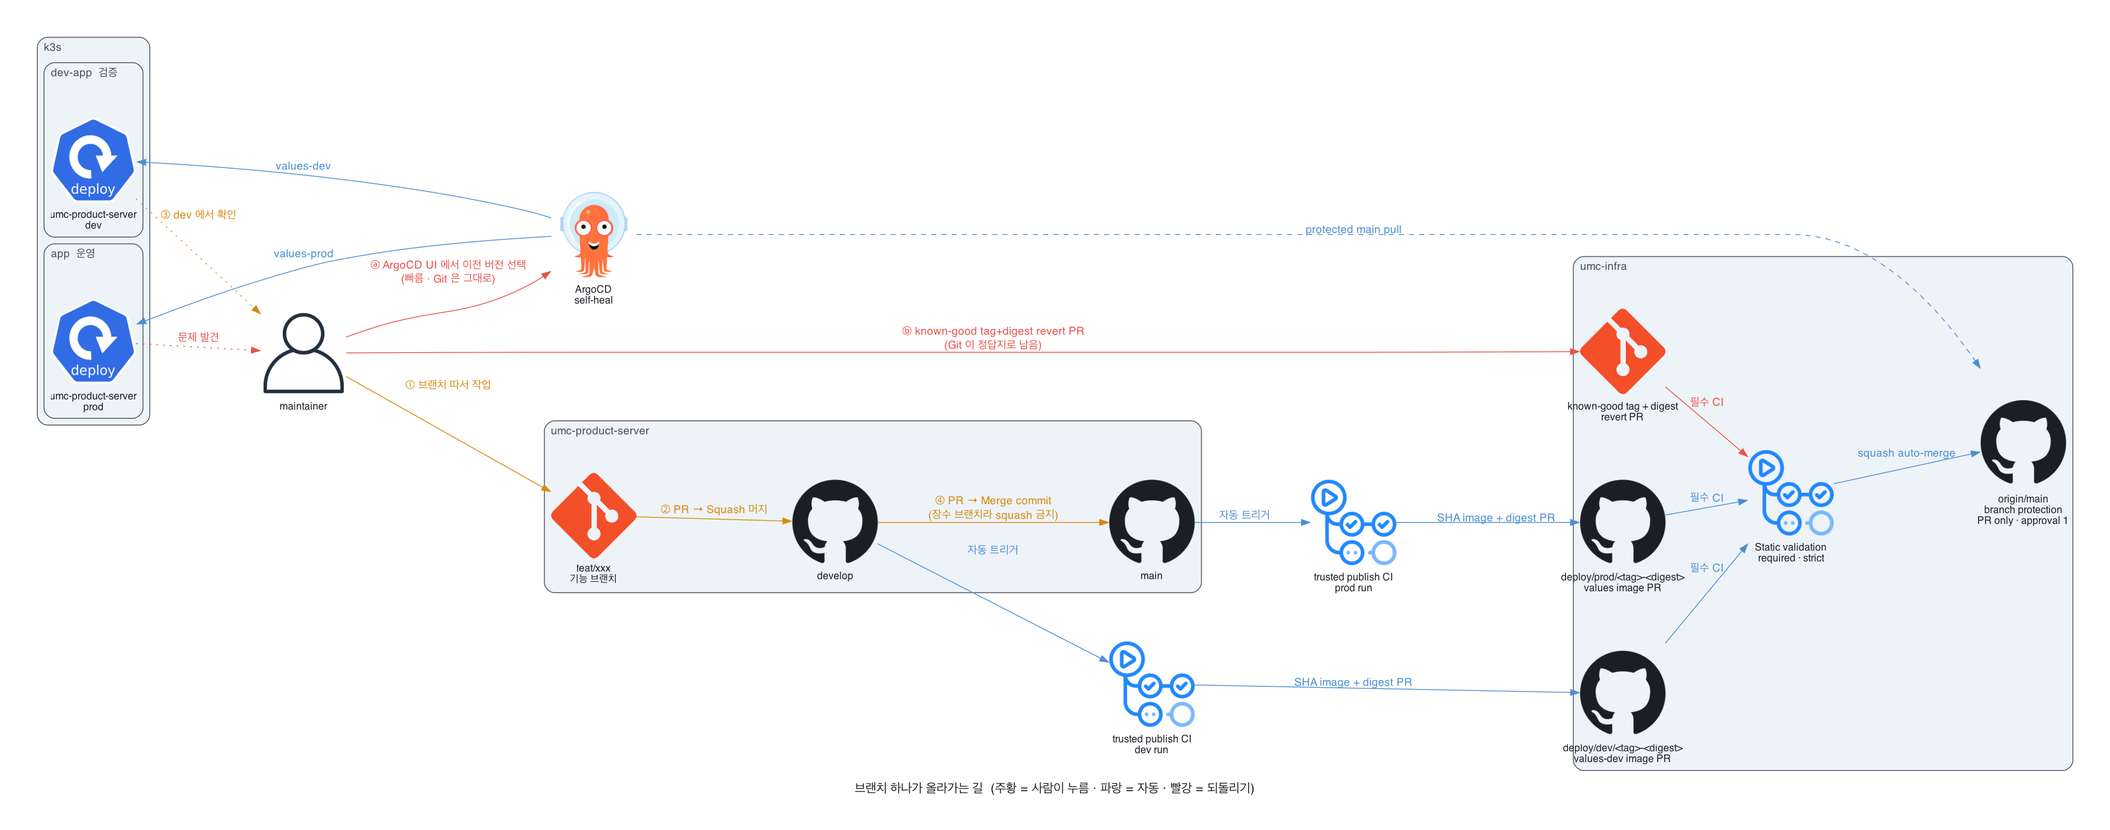
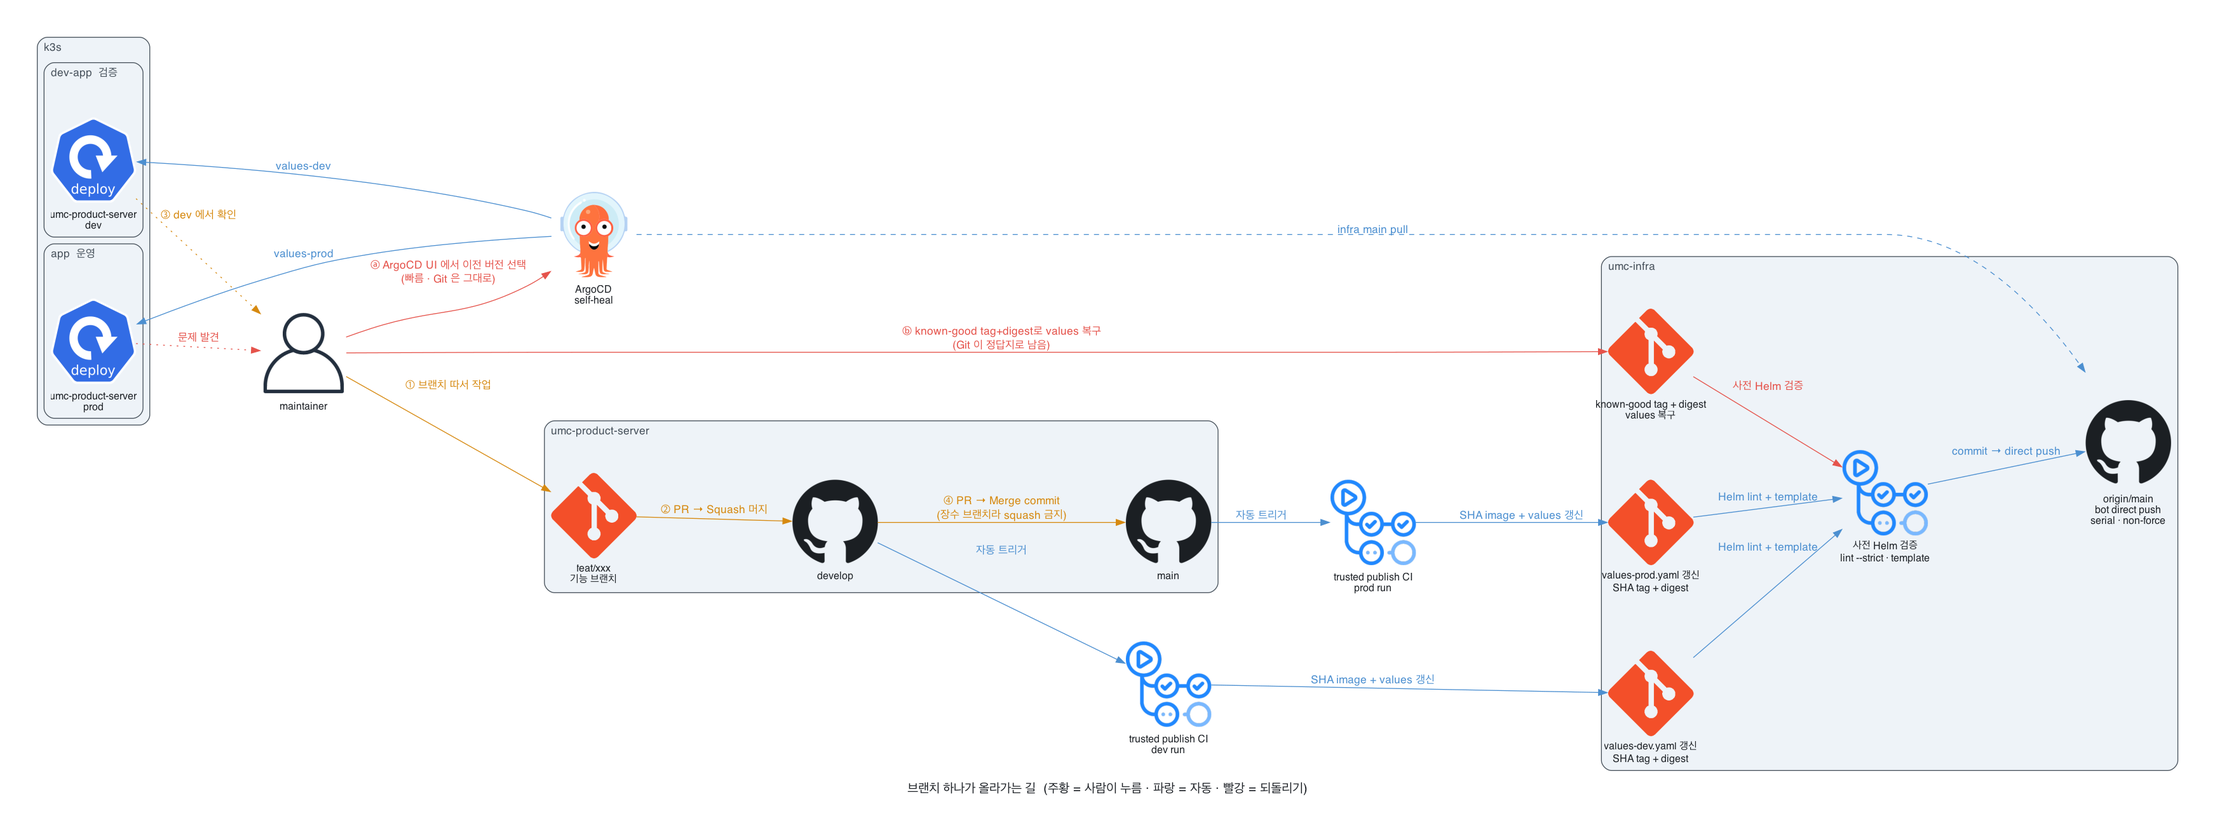
docs: GitOps 직접 반영 흐름 동기화

diff --git a/docs/umc-infra-control-room.html b/docs/umc-infra-control-room.html
@@ -992,7 +992,7 @@
               <ul class="clean-list">
                 <li>현재 remote 없음</li>
                 <li>write는 cluster-admin급</li>
-                <li>BE bot도 PR만 허용</li>
+                <li>BE bot은 사전 검증한 image values만 직접 반영</li>
               </ul>
             </div>
           </article>
@@ -1027,7 +1027,7 @@
             <div class="phase-body">
               <span class="status-chip is-later">be later</span>
               <h3>Image and activation</h3>
-              <p>BE CI가 public GHCR에 SHA image를 게시하고 infra tag·digest PR을 만든다. dev 검증 후 prod, preview는 마지막이다.</p>
+              <p>BE CI가 public GHCR에 SHA image를 게시하고, Helm 사전 검증 후 infra main에 tag·digest를 직접 반영한다. Argo CD가 변경을 감지해 자동 동기화하며 dev 검증 후 prod, preview는 마지막이다.</p>
               <ul class="clean-list">
                 <li>prod/dev는 tag + digest</li>
                 <li>production TLS 뒤 Ingress</li>
@@ -1177,7 +1177,7 @@
           <div class="sec-index">05 / GATE</div>
           <div class="sec-copy">
             <h2>체크리스트 대신 현재 상태판</h2>
-            <p>gate는 문서 장식이 아니라 fail-closed 값이다. 조건이 확인된 항목만 별도 PR로 바꾼다.</p>
+            <p>gate는 문서 장식이 아니라 fail-closed 값이다. 조건이 확인되고 사전 검증을 통과한 항목만 infra main에 반영한다.</p>
           </div>
         </div>
 
@@ -1409,7 +1409,7 @@
           </article>
           <article class="next-item is-deferred">
             <h3>BE image 공급 경로 수정</h3>
-            <p><code>.env.local</code> packaging을 차단하고 실제 image를 scan한다. CI는 public GHCR에 12-char SHA를 게시하고 prod/dev digest를 infra PR에 기록한다.</p>
+            <p><code>.env.local</code> packaging을 차단하고 실제 image를 scan한다. CI는 public GHCR에 12-char SHA를 게시하고, prod/dev values를 Helm으로 사전 검증한 뒤 digest를 infra main에 직접 기록한다.</p>
           </article>
           <article class="next-item is-deferred">
             <h3>dev → prod → preview 순차 활성화</h3>

diff --git a/docs/diagrams/branch_flow.py b/docs/diagrams/branch_flow.py
@@ -3,8 +3,8 @@
 cicd_flow.py 는 "push 하면 어떻게 배포되나"를 그린다. 이 그림은 그 앞단이다:
 기능 브랜치를 따서 develop을 거쳐 prod까지 올리는 순서와, 잘못됐을 때 되돌리는 두 경로.
 
-앱 승격은 사람이 결정하고, 각 환경의 infra tag+digest 변경은 PR·필수 CI·
-squash auto-merge를 거친다. 저장소 branch protection은 최초 CI 성공 후 적용한다.
+앱 승격은 사람이 결정하고, 각 환경의 infra tag+digest 변경은 사전 Helm 검증 후
+main에 직접 push한다. dev/prod 갱신은 직렬화하며 force push하지 않는다.
 
     python branch_flow.py   →  out/branch-flow.png
 """
@@ -45,11 +45,11 @@ def build(theme: dict) -> None:
         cd_prod = GithubActions("trusted publish CI\nprod run")
 
         with Cluster("umc-infra", graph_attr=ca):
-            pr_dev = Github("deploy/dev/<tag>-<digest>\nvalues-dev image PR")
-            pr_prod = Github("deploy/prod/<tag>-<digest>\nvalues image PR")
-            checks = GithubActions("Static validation\nrequired · strict")
-            infra_main = Github("origin/main\nbranch protection\nPR only · approval 1")
-            revert_pr = Git("known-good tag + digest\nrevert PR")
+            update_dev = Git("values-dev.yaml 갱신\nSHA tag + digest")
+            update_prod = Git("values-prod.yaml 갱신\nSHA tag + digest")
+            checks = GithubActions("사전 Helm 검증\nlint --strict · template")
+            infra_main = Github("origin/main\nbot direct push\nserial · non-force")
+            rollback_values = Git("known-good tag + digest\nvalues 복구")
 
         argo = Argocd("ArgoCD\nself-heal")
 
@@ -59,34 +59,34 @@ def build(theme: dict) -> None:
             with Cluster("app  운영", graph_attr=ca):
                 prod_pod = Deployment("umc-product-server\nprod")
 
-        # 올리는 길 — 앱 승격은 사람, infra tag PR부터는 자동이다.
+        # 올리는 길 — 앱 승격은 사람, infra values 갱신부터는 자동이다.
         me >> Edge(label="① 브랜치 따서 작업", color=MANUAL, fontcolor=MANUAL) >> feat
         feat >> Edge(label="② PR → Squash 머지", color=MANUAL, fontcolor=MANUAL) >> dev_br
 
         dev_br >> Edge(label="자동 트리거", color=AUTO, fontcolor=AUTO) >> cd_dev
-        cd_dev >> Edge(label="SHA image + digest PR", color=AUTO, fontcolor=AUTO) >> pr_dev
-        pr_dev >> Edge(label="필수 CI", color=AUTO, fontcolor=AUTO) >> checks
+        cd_dev >> Edge(label="SHA image + values 갱신", color=AUTO, fontcolor=AUTO) >> update_dev
+        update_dev >> Edge(label="Helm lint + template", color=AUTO, fontcolor=AUTO) >> checks
 
         dev_pod >> Edge(label="③ dev 에서 확인", color=MANUAL, fontcolor=MANUAL, style="dotted") >> me
         dev_br >> Edge(label="④ PR → Merge commit\n(장수 브랜치라 squash 금지)",
                        color=MANUAL, fontcolor=MANUAL) >> main_br
 
         main_br >> Edge(label="자동 트리거", color=AUTO, fontcolor=AUTO) >> cd_prod
-        cd_prod >> Edge(label="SHA image + digest PR", color=AUTO, fontcolor=AUTO) >> pr_prod
-        pr_prod >> Edge(label="필수 CI", color=AUTO, fontcolor=AUTO) >> checks
-        checks >> Edge(label="squash auto-merge", color=AUTO, fontcolor=AUTO) >> infra_main
-        argo >> Edge(label="protected main pull", color=AUTO, fontcolor=AUTO,
+        cd_prod >> Edge(label="SHA image + values 갱신", color=AUTO, fontcolor=AUTO) >> update_prod
+        update_prod >> Edge(label="Helm lint + template", color=AUTO, fontcolor=AUTO) >> checks
+        checks >> Edge(label="commit → direct push", color=AUTO, fontcolor=AUTO) >> infra_main
+        argo >> Edge(label="infra main pull", color=AUTO, fontcolor=AUTO,
                      style="dashed") >> infra_main
         argo >> Edge(label="values-dev", color=AUTO, fontcolor=AUTO) >> dev_pod
         argo >> Edge(label="values-prod", color=AUTO, fontcolor=AUTO) >> prod_pod
 
-        # 되돌리는 길 — 두 가지
+        # 되돌리는 길 — 즉시 Argo CD rollback과 Git 기준값 복구
         prod_pod >> Edge(label="문제 발견", color=BACK, fontcolor=BACK, style="dotted") >> me
         me >> Edge(label="ⓐ ArgoCD UI 에서 이전 버전 선택\n(빠름 · Git 은 그대로)",
                    color=BACK, fontcolor=BACK) >> argo
-        me >> Edge(label="ⓑ known-good tag+digest revert PR\n(Git 이 정답지로 남음)",
-                   color=BACK, fontcolor=BACK) >> revert_pr
-        revert_pr >> Edge(label="필수 CI", color=BACK, fontcolor=BACK) >> checks
+        me >> Edge(label="ⓑ known-good tag+digest로 values 복구\n(Git 이 정답지로 남음)",
+                   color=BACK, fontcolor=BACK) >> rollback_values
+        rollback_values >> Edge(label="사전 Helm 검증", color=BACK, fontcolor=BACK) >> checks
 
 
 if __name__ == "__main__":

diff --git a/docs/diagrams/cicd_flow.py b/docs/diagrams/cicd_flow.py
@@ -1,11 +1,12 @@
 """CI/CD 배포 흐름 — 코드 push 부터 클러스터 반영까지.
 
-매니페스트만으로는 그릴 수 없다. "Actions 가 ghcr 에 밀고 인프라 tag+digest PR을 열면 필수 CI 뒤
-merge되고 ArgoCD 가 감지한다"는 어떤 매니페스트에도 적혀 있지 않기 때문이다. 그래서 손으로 그린다.
+매니페스트만으로는 그릴 수 없다. "Actions가 GHCR에 밀고 infra tag+digest를 갱신한 뒤
+Helm 검증을 통과하면 main에 직접 push하고 Argo CD가 감지한다"는 어떤 매니페스트에도 적혀
+있지 않기 때문이다. 그래서 손으로 그린다.
 
 이 그림이 반드시 전달해야 하는 두 가지:
   1) ArgoCD → GitHub 방향이 pull 이다 (push 아님)
-  2) 앱 레포에서 클러스터로 가는 화살표와 infra main 직접 push가 없다
+  2) 앱 레포에서 클러스터로 직접 apply하는 화살표가 없다
 
     python cicd_flow.py     →  out/cicd-flow.png
 """
@@ -45,10 +46,9 @@ def build(theme: dict) -> None:
         )
 
         with Cluster("umc-infra  (public)", graph_attr=ca):
-            bump = Git("deploy/<env>/<tag>-<digest>\nimage.tag + image.digest")
-            bump_pr = Github("image bump PR")
-            checks = GithubActions("Static validation\nrequired · strict")
-            repo_infra = Github("컷오버 후 origin/main\nPR only · squash\nadmin bypass 없음")
+            bump = Git("values-<env>.yaml 갱신\nimage.tag + image.digest")
+            checks = GithubActions("사전 Helm 검증\nlint --strict · template")
+            repo_infra = Github("origin/main\nbot direct push\nserial · non-force")
 
         with Cluster("IDC 물리 서버 1대  ·  k3s", graph_attr=ca):
             argo = Argocd("ArgoCD")
@@ -62,19 +62,18 @@ def build(theme: dict) -> None:
         ) >> actions
 
         actions >> Edge(label="① 이미지 빌드 → push", fontcolor=theme["fg"]) >> registry
-        actions >> Edge(label="② 배포 브랜치 생성", style="dashed",
+        actions >> Edge(label="② values 갱신", style="dashed",
                         fontcolor=theme["fg"]) >> bump
-        bump >> Edge(label="③ PR 생성", fontcolor=theme["fg"]) >> bump_pr
-        bump_pr >> Edge(label="④ 필수 검증", fontcolor=theme["fg"]) >> checks
-        checks >> Edge(label="⑤ squash auto-merge", fontcolor=theme["fg"]) >> repo_infra
+        bump >> Edge(label="③ 사전 검증", fontcolor=theme["fg"]) >> checks
+        checks >> Edge(label="④ commit → direct push", fontcolor=theme["fg"]) >> repo_infra
 
         # 이 화살표의 방향이 이 설계의 전부다 — 클러스터가 GitHub 을 읽는다
-        argo >> Edge(label="⑥ 3분마다 읽음 (pull)", color=PULL, fontcolor=PULL) >> repo_infra
+        argo >> Edge(label="⑤ 3분마다 읽음 (pull)", color=PULL, fontcolor=PULL) >> repo_infra
 
         argo >> Edge(label="values-prod.yaml → Production", fontcolor=theme["fg"]) >> prod
         argo >> Edge(label="values-dev.yaml → Development", fontcolor=theme["fg"]) >> dev_app
 
-        prod >> Edge(label="⑦ anonymous digest pull", style="dotted",
+        prod >> Edge(label="⑥ anonymous digest pull", style="dotted",
                      fontcolor=theme["fg"]) >> registry
         dev_app >> Edge(style="dotted") >> registry
 

diff --git a/docs/guides/github-trust-root.md b/docs/guides/github-trust-root.md
@@ -7,55 +7,67 @@ Argo CD가 `UMC-PRODUCT/umc-product-infra`의 `main`을 자동 반영하므로 b
 
 | 정책 | 값 |
 |---|---|
-| merge 경로 | pull request only |
-| required check | `Static validation`, strict |
+| 일반 변경 경로 | pull request only |
+| 배포 자동화 | 승인된 bot의 `values-prod.yaml` / `values-dev.yaml` direct push만 예외 |
+| direct push 사전 검증 | 선택한 환경의 `helm lint --strict` + `helm template` |
+| push 후 검증 | `Static validation` |
 | approval | 최소 1명 |
 | stale review | 새 push 때 dismiss |
 | last push | 마지막 push 작성자 외 승인 필요 |
-| admin bypass | 금지 |
+| bypass | 배포 bot만 명시적 허용 |
 | history | squash + linear |
 | conversation resolution | 필수 |
 | force push / branch delete | 금지 |
 
-인프라 변경은 클러스터 권한 변경이므로 승인 0을 금지한다. UMC team slug 확정 후 CODEOWNERS team을 추가하되, 그전에도 1명 승인을 유지한다.
+일반 인프라 변경은 클러스터 권한 변경이므로 승인 0을 금지한다. 예외는 trusted backend
+branch에서 실행되고, 선택한 image values 파일만 갱신하며, push 전 Helm 검증을
+통과한 배포 자동화다. UMC team slug 확정 후 CODEOWNERS team을 추가하되, 일반
+변경에는 그전에도 1명 승인을 유지한다.
 
-workflow 표시명은 `Validate infrastructure`, required-check context는 job `Static validation`이다. 스크립트는 임의 동명 status가 아닌 현재 `main` SHA에서 성공한 check의 GitHub Actions App ID까지 확인한다.
+workflow 표시명은 `Validate infrastructure`, check context는 job `Static validation`이다. direct push 후
+실행되는 이 check는 Argo CD 동기화를 사전 차단하지 못하므로, backend workflow의
+정확한 파일 제한과 Helm 사전 검증이 배포 gate다.
 
 ## 적용 순서
 
 1. `UMC-PRODUCT/umc-product-infra` 저장소를 만들고 초기 버전을 `main`에 올린다.
 2. `Static validation`이 실제 `main` SHA에서 성공했는지 확인한다.
 3. GitHub secret scanning과 push protection을 켠다.
-4. 관리자 환경에서 `gh auth status`와 `jq`를 확인한다.
-5. 아래 명령을 실행한다.
+4. backend 배포 bot용 fine-grained PAT에 해당 저장소의 `Contents: Read and write`만 부여하고
+   backend 저장소의 `UMC_INFRA_GITOPS_TOKEN` Secret으로 저장한다.
+5. 일반 변경은 PR로 제한하되 해당 배포 bot만 direct push 예외로 명시한다.
 
-```bash
-scripts/configure-github-trust-root.sh --apply
-```
-
-스크립트는 `umc-product-server`를 읽거나 수정하지 않아 backend publish workflow 전에도 infra를 보호한다.
-branch protection 후 auto-merge, squash-only, merge 후 branch 삭제를 설정한다. 중간 실패해도 보호는 남으며 같은 명령으로 수렴한다.
+> [!WARNING]
+> 현재 `scripts/configure-github-trust-root.sh --apply`는 `main` direct push를 모두 차단하는 PR-only
+> 규칙을 적용한다. 배포 bot 예외를 지원하도록 스크립트를 갱신하기 전에는 실행하지 않는다.
 
 조직 2FA 강제와 복구 수단 관리는 권장하지만 조직 owner가 별도로 다룰 정책이다. 저장소 branch
 protection 적용과 결합하지 않으며, 이 스크립트도 조직 구성원이나 2FA 상태를 조회하지 않는다.
 
-## Backend 자동화의 미래 계약
+## Backend 배포 자동화 계약
 
 - prod source: `main`
 - dev source: `develop`
 - preview source: `develop` 대상의 trusted same-repository PR + `preview` label
 - image: public `ghcr.io/umc-product/umc-product-server:<12-char-sha>`; cluster는 credential 없이 anonymous pull
-- prod/dev deploy: registry digest 확인 후 infra image values PR 생성
+- prod/dev deploy: registry digest 확인 → 선택 values 갱신 → Helm 사전 검증 → infra `main` direct push
 - preview: PR head SHA tag 게시; 외부/fork PR에는 credential workflow 실행 금지
 - infra write credential: `umc-product-infra` 한 저장소만 허용한 fine-grained token 또는 GitHub App
-- permission: Contents/Pull requests 최소 read/write, 만료와 회전 적용
-- direct push 금지; 봇도 PR과 `Static validation`을 통과
+- permission: `Contents: Read and write`만 부여, 만료와 회전 적용
+- updater는 `values-prod.yaml` 또는 `values-dev.yaml` 중 선택된 파일 하나 외의 변경을 거부
+- prod/dev 갱신 job은 같은 concurrency group으로 infra `main` push를 직렬화
+- push 성공 후 Argo CD가 새 desired state를 감지해 자동 동기화
 
-현재 차트는 `deployment.enabled: false`이고 image digest가 비어 있으므로 이 계약을 구현하기 전에는 앱을 만들지 않는다.
+현재 차트는 `deployment.enabled: false`이고 image digest가 비어 있으므로 첫 image direct push
+전에는 앱을 만들지 않는다. updater는 첫 image를 기록할 때만 Deployment와 Ingress gate를
+함께 열고, 그 상태를 사전 렌더링해 성공한 경우에만 push한다.
 
 ## 공개 PR 경계
 
-infra PR validation은 read-only `GITHUB_TOKEN`과 GitHub-hosted runner만 쓴다. fork PR code에 AWS, cluster, deploy credential을 주지 않는다. GHCR package가 public이어도 fork code를 trusted publish workflow에서 실행하거나 image를 배포하지 않는다.
+일반 infra PR validation은 read-only `GITHUB_TOKEN`과 GitHub-hosted runner만 쓴다. infra write PAT는
+trusted `main` / `develop` push의 backend `update-infra` job에만 제공한다. fork PR code에 AWS,
+cluster, deploy credential을 주지 않는다. GHCR package가 public이어도 fork code를 trusted publish
+workflow에서 실행하거나 image를 배포하지 않는다.
 
 preview의 `preview` label은 maintainer의 trust 승인이다. ApplicationSet은 author association을 필터링하지 못하므로 backend CI가 same-repository와 author association을 먼저 fail-closed로 검사해야 한다.
 
@@ -69,10 +81,12 @@ gh api repos/UMC-PRODUCT/umc-product-infra \
 
 출력이 위 보호 규칙과 다음 조건을 만족해야 한다.
 
-- strict required check는 `Static validation`과 GitHub Actions App ID에 묶여야 한다.
-- admin enforcement, approval 1, stale review dismissal, last-push approval은 on이다.
+- 일반 PR의 required check는 `Static validation`과 GitHub Actions App ID에 묶여야 한다.
+- approval 1, stale review dismissal, last-push approval은 on이다.
+- direct push bypass는 배포 bot 주체에만 허용한다.
 - linear history와 conversation resolution은 on이다.
 - force push와 branch deletion은 off다.
 - merge commit과 rebase merge는 off다.
 
-영구 rollback은 known-good tag+digest 복원 PR로 한다. Argo CD UI rollback은 self-heal이 최신 Git으로 돌려놓으므로 임시 조치다.
+영구 rollback은 known-good tag+digest를 복원하고 사전 검증한 infra `main` commit으로 한다.
+Argo CD UI rollback은 self-heal이 최신 Git으로 돌려놓으므로 임시 조치다.

diff --git a/README.md b/README.md
@@ -20,7 +20,8 @@ UMC Product의 단일 노드 K3s 클러스터를 선언적으로 운영하는 Gi
 
 ### 2. CI/CD flow
 
-Backend CI가 GHCR에 이미지를 게시하고 GitOps PR을 거쳐 K3s에 배포하는 경로다.
+Backend CI가 GHCR에 이미지를 게시하고, 선택한 환경 values를 사전 검증한 뒤
+infra `main`에 직접 반영하여 K3s에 배포하는 경로다.
 
 [![UMC Product CI/CD 흐름](docs/diagrams/out/cicd-flow.png)](docs/diagrams/out/cicd-flow.png)
 
@@ -116,14 +117,14 @@ DNS와 접근 정책은 [도메인/TLS 가이드](docs/guides/domains-tls.md)를
 | TLS | Let's Encrypt production | 설정 완료 | Certificate의 최신 generation이 `Ready=True`인지 확인 |
 | Grafana | public Ingress 활성 | 배포 후 확인 | HTTPS 접속, 로그인과 팀원 권한 확인 |
 | prod/dev 앱 | `deployment.enabled: false`, image placeholder | 잠금 유지 | 검증된 GHCR tag·digest와 runtime 계약 반영 |
-| prod/dev API | `ingress.enabled: false` | 잠금 유지 | 앱 gate와 같은 PR에서 활성화하고 외부 HTTPS 확인 |
+| prod/dev API | `ingress.enabled: false` | 잠금 유지 | 검증된 첫 image 직접 반영에서 앱 gate와 함께 활성화하고 외부 HTTPS 확인 |
 | Preview API | Deployment·Ingress 비활성 | 잠금 유지 | 신뢰된 PR 이미지 발행 CI를 만든 뒤 활성화 |
 | DB backup | `suspend: true` | 잠금 유지 | S3 업로드와 클러스터 외부 복원 테스트 성공 |
 | root/cluster 자동 삭제 | `prune: false` | 안전장치 유지 | 첫 운영 안정화와 삭제 복구 절차 검증 후 재검토 |
 
 `설정 완료`는 실제 서비스 검증 완료를 뜻하지 않는다. DNS와 TLS controller는 클러스터가
-동작한 뒤 레코드와 Certificate를 만든다. 첫 앱 이미지 배포 PR에서는 tag·digest와
-Deployment·Ingress를 함께 활성화하며, Argo CD는 prod/dev Application 안에서
+동작한 뒤 레코드와 Certificate를 만든다. 첫 앱 image는 tag·digest와 활성화된
+Deployment·Ingress를 Helm으로 사전 검증한 뒤 infra `main`에 직접 반영하며, Argo CD는 prod/dev Application 안에서
 Certificate → Deployment → Ingress 순서로 기다린다. Preview는 공용 wildcard Certificate가
 `Ready=True`인 것을 확인한 뒤 PR 이미지 발행과 함께 연다.
 

diff --git a/scripts/README.md b/scripts/README.md
@@ -42,7 +42,7 @@ observability/ 원본
 | [`bootstrap-external-secrets-aws.sh`](bootstrap-external-secrets-aws.sh) | ESO가 AWS에 접근할 `aws-bootstrap` Secret 직접 주입 | Kubernetes | 수동 복구·직접 주입 시 |
 | [`gen-configmaps.py`](gen-configmaps.py) | 관측 원본을 Kubernetes ConfigMap으로 변환 | `manifests/observability/` | dashboard·alert 변경 시 |
 | [`validate.sh`](validate.sh) | 저장소 전체 검증 | 외부 인프라 변경 없음 | 모든 변경 후 |
-| [`configure-github-trust-root.sh`](configure-github-trust-root.sh) | `main` branch와 merge 정책 보호 | GitHub 저장소 설정 | 최초 push·CI 성공 후 |
+| [`configure-github-trust-root.sh`](configure-github-trust-root.sh) | PR-only `main` branch와 merge 정책 보호 | GitHub 저장소 설정 | direct-push 배포 bot 예외 지원 전에는 실행 금지 |
 | `validate_*.py` | 영역별 상세 계약 검사 | 검증 출력 디렉터리 | `validate.sh` 내부 호출 |
 | [`tests/`](tests/) | bootstrap·Secret·네트워크 안전장치 단위 테스트 | 없음 | `validate.sh` 내부 호출 |
 
@@ -250,6 +250,11 @@ Kubernetes 상태는 바꾸지 않는다. 최종 기준은
 [`configure-github-trust-root.sh`](configure-github-trust-root.sh)는 Argo CD가 읽는 `main`을
 사실상의 배포 권한으로 보고 GitHub branch protection을 설정한다.
 
+> [!WARNING]
+> 현재 스크립트는 `main` direct push를 모두 차단하므로, backend의 사전 검증 후
+> infra `main` direct-push 배포 계약과 충돌한다. 배포 bot만 명시적 예외로 허용하도록
+> 스크립트를 갱신하기 전에는 아래 명령을 실행하지 않는다.
+
 실행 전 조건:
 
 1. `UMC-PRODUCT/umc-product-infra` 저장소와 `main`이 존재한다.
@@ -302,7 +307,7 @@ python3 -m unittest discover -s scripts/tests -p 'test_*.py'
 5. 검토 후 bootstrap_aws_secrets.py --apply
 6. ./scripts/validate.sh
 7. 최초 Git push와 Static validation 성공 확인
-8. configure-github-trust-root.sh --apply
+8. direct-push 배포 bot 예외를 지원하는 GitHub 보호 규칙 적용(현재 script 사용 금지)
 9. Ansible로 Tailscale·K3s·Argo CD·ESO bootstrap
 10. SecretStore와 ExternalSecret의 Ready 상태 확인
 ```
